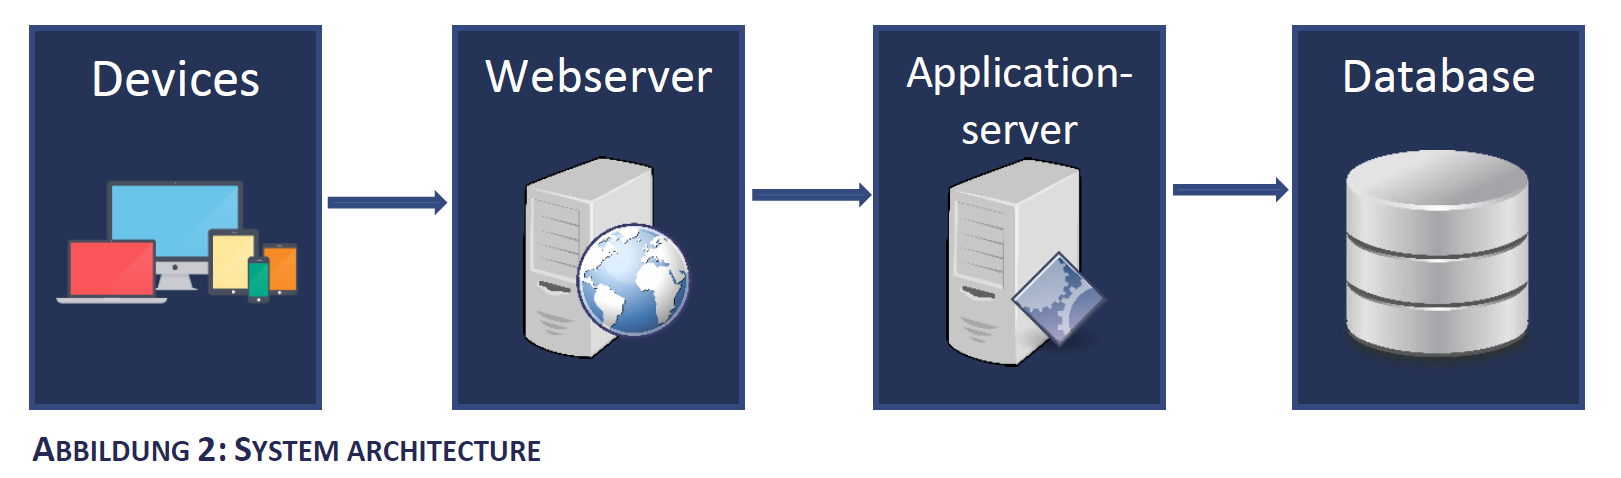
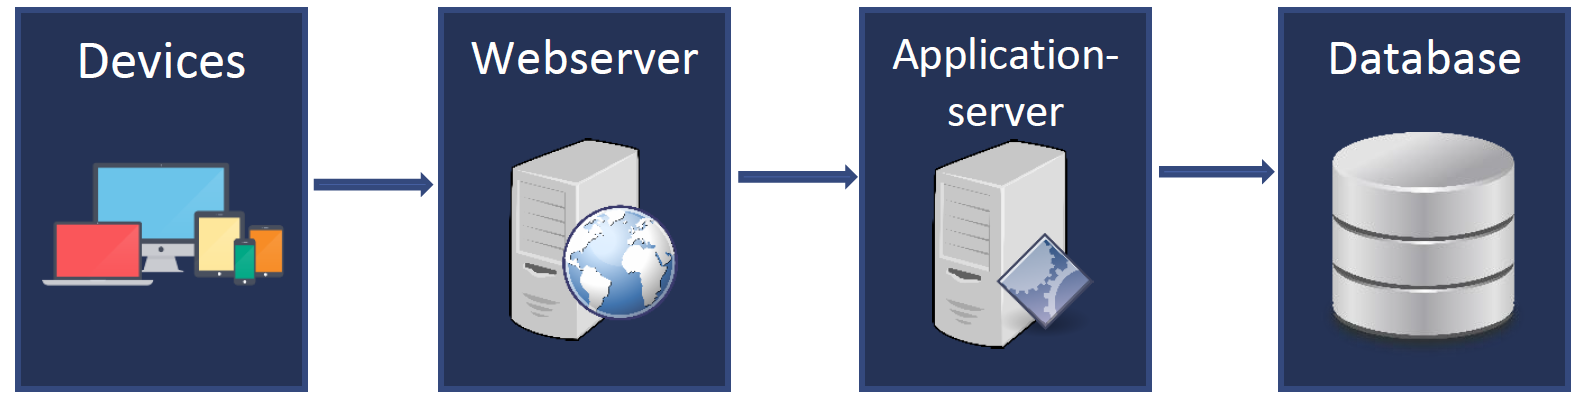
Fix system architecture image and centering

diff --git a/doc/task_02/task_02.md b/doc/task_02/task_02.md
@@ -24,7 +24,7 @@ are involved in the project.
 : History
 
 | Version | Author          | Changelog                    | Date       |
-|:-------:|-----------------|------------------------------|------------|
+| :-----: | --------------- | ---------------------------- | ---------- |
 |   0.1   | All             | Document created             | 2019-03-27 |
 |   0.2   | Severin Kaderli | Add glossary and testing     | 2019-04-03 |
 |   0.3   | Fabio Caggiano  | Add system model & evolution | 2019-04-04 |
@@ -67,7 +67,7 @@ day-to-day lives.
 : Roles
 
 | Initial | Name             | Role                   |
-|:-------:|------------------|------------------------|
+| :-----: | ---------------- | ---------------------- |
 |   CK    | Christian Kocher | Student / Developer    |
 |   FC    | Fabio Caggiano   | Student / Developer    |
 |   MH    | Marc Häsler      | Student / Developer    |
@@ -353,8 +353,7 @@ an alternative party to contact, such as a close family member.
 \newpage
 
 # System architecture
-\centering
-![](assets/system_architecture.png)
+![System Architecture](assets/system_architecture.png)
 
 ## Client
 A user of the system will access the application through a web-browser
